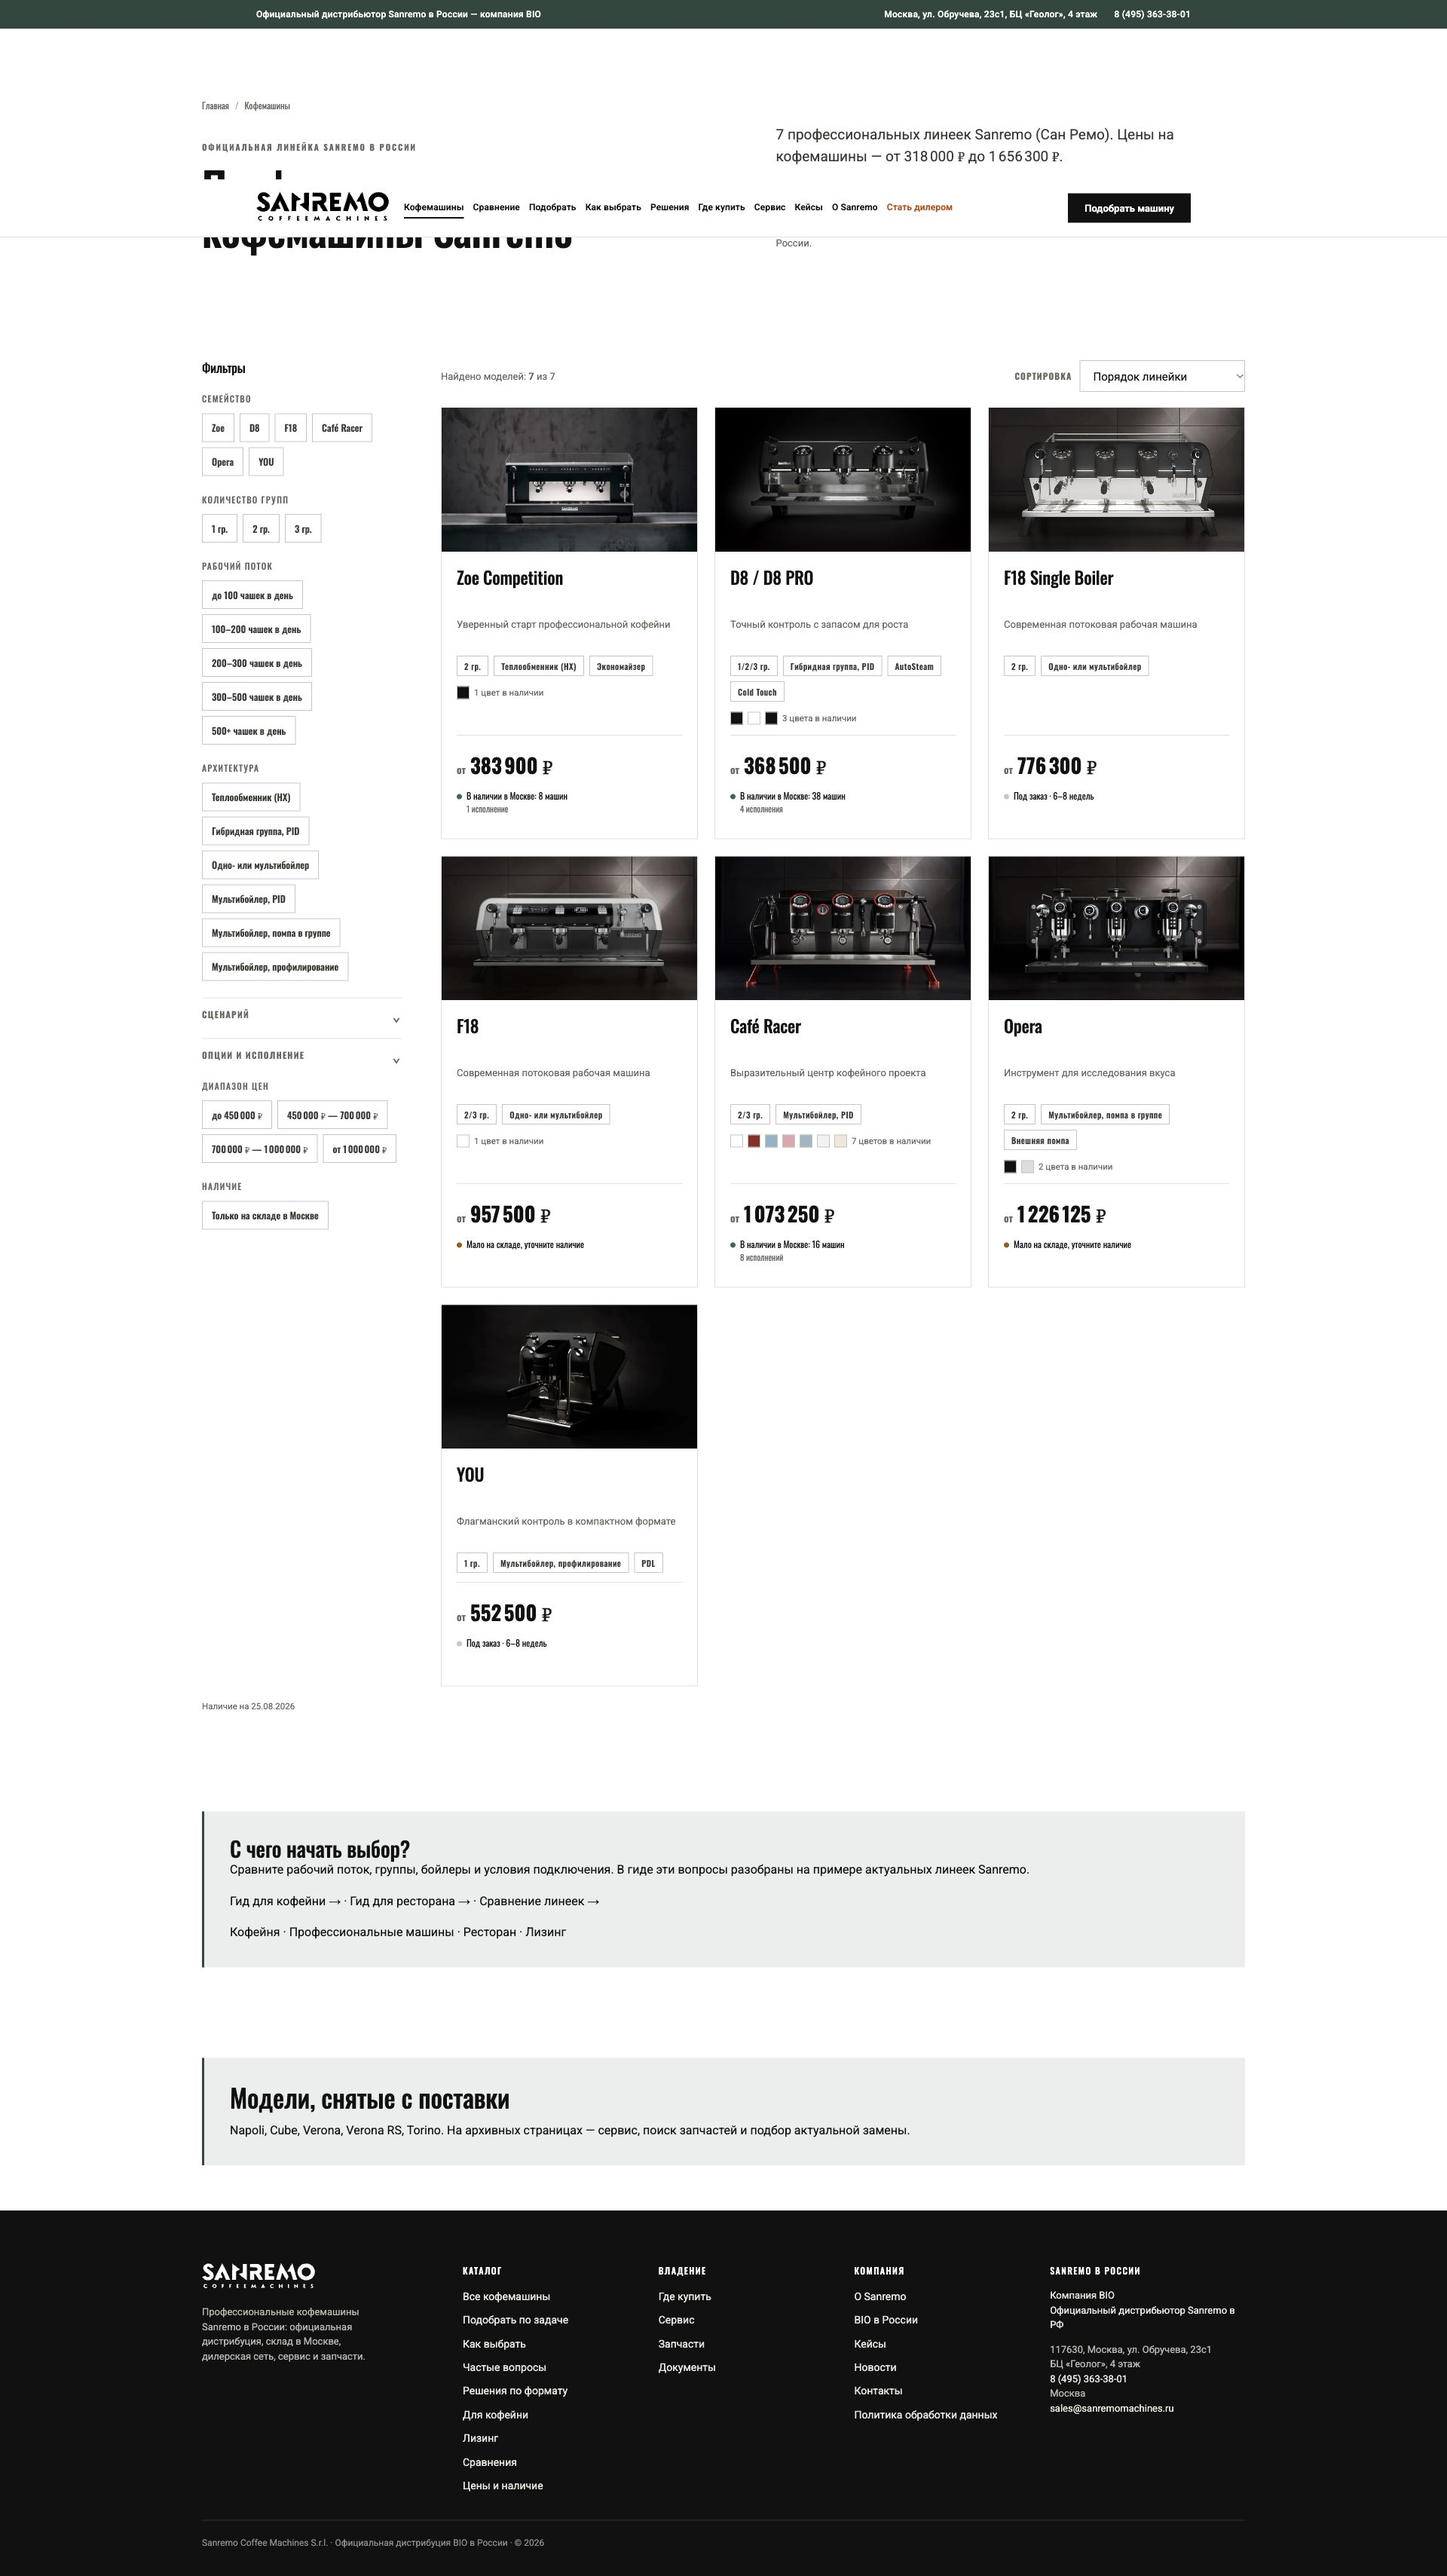
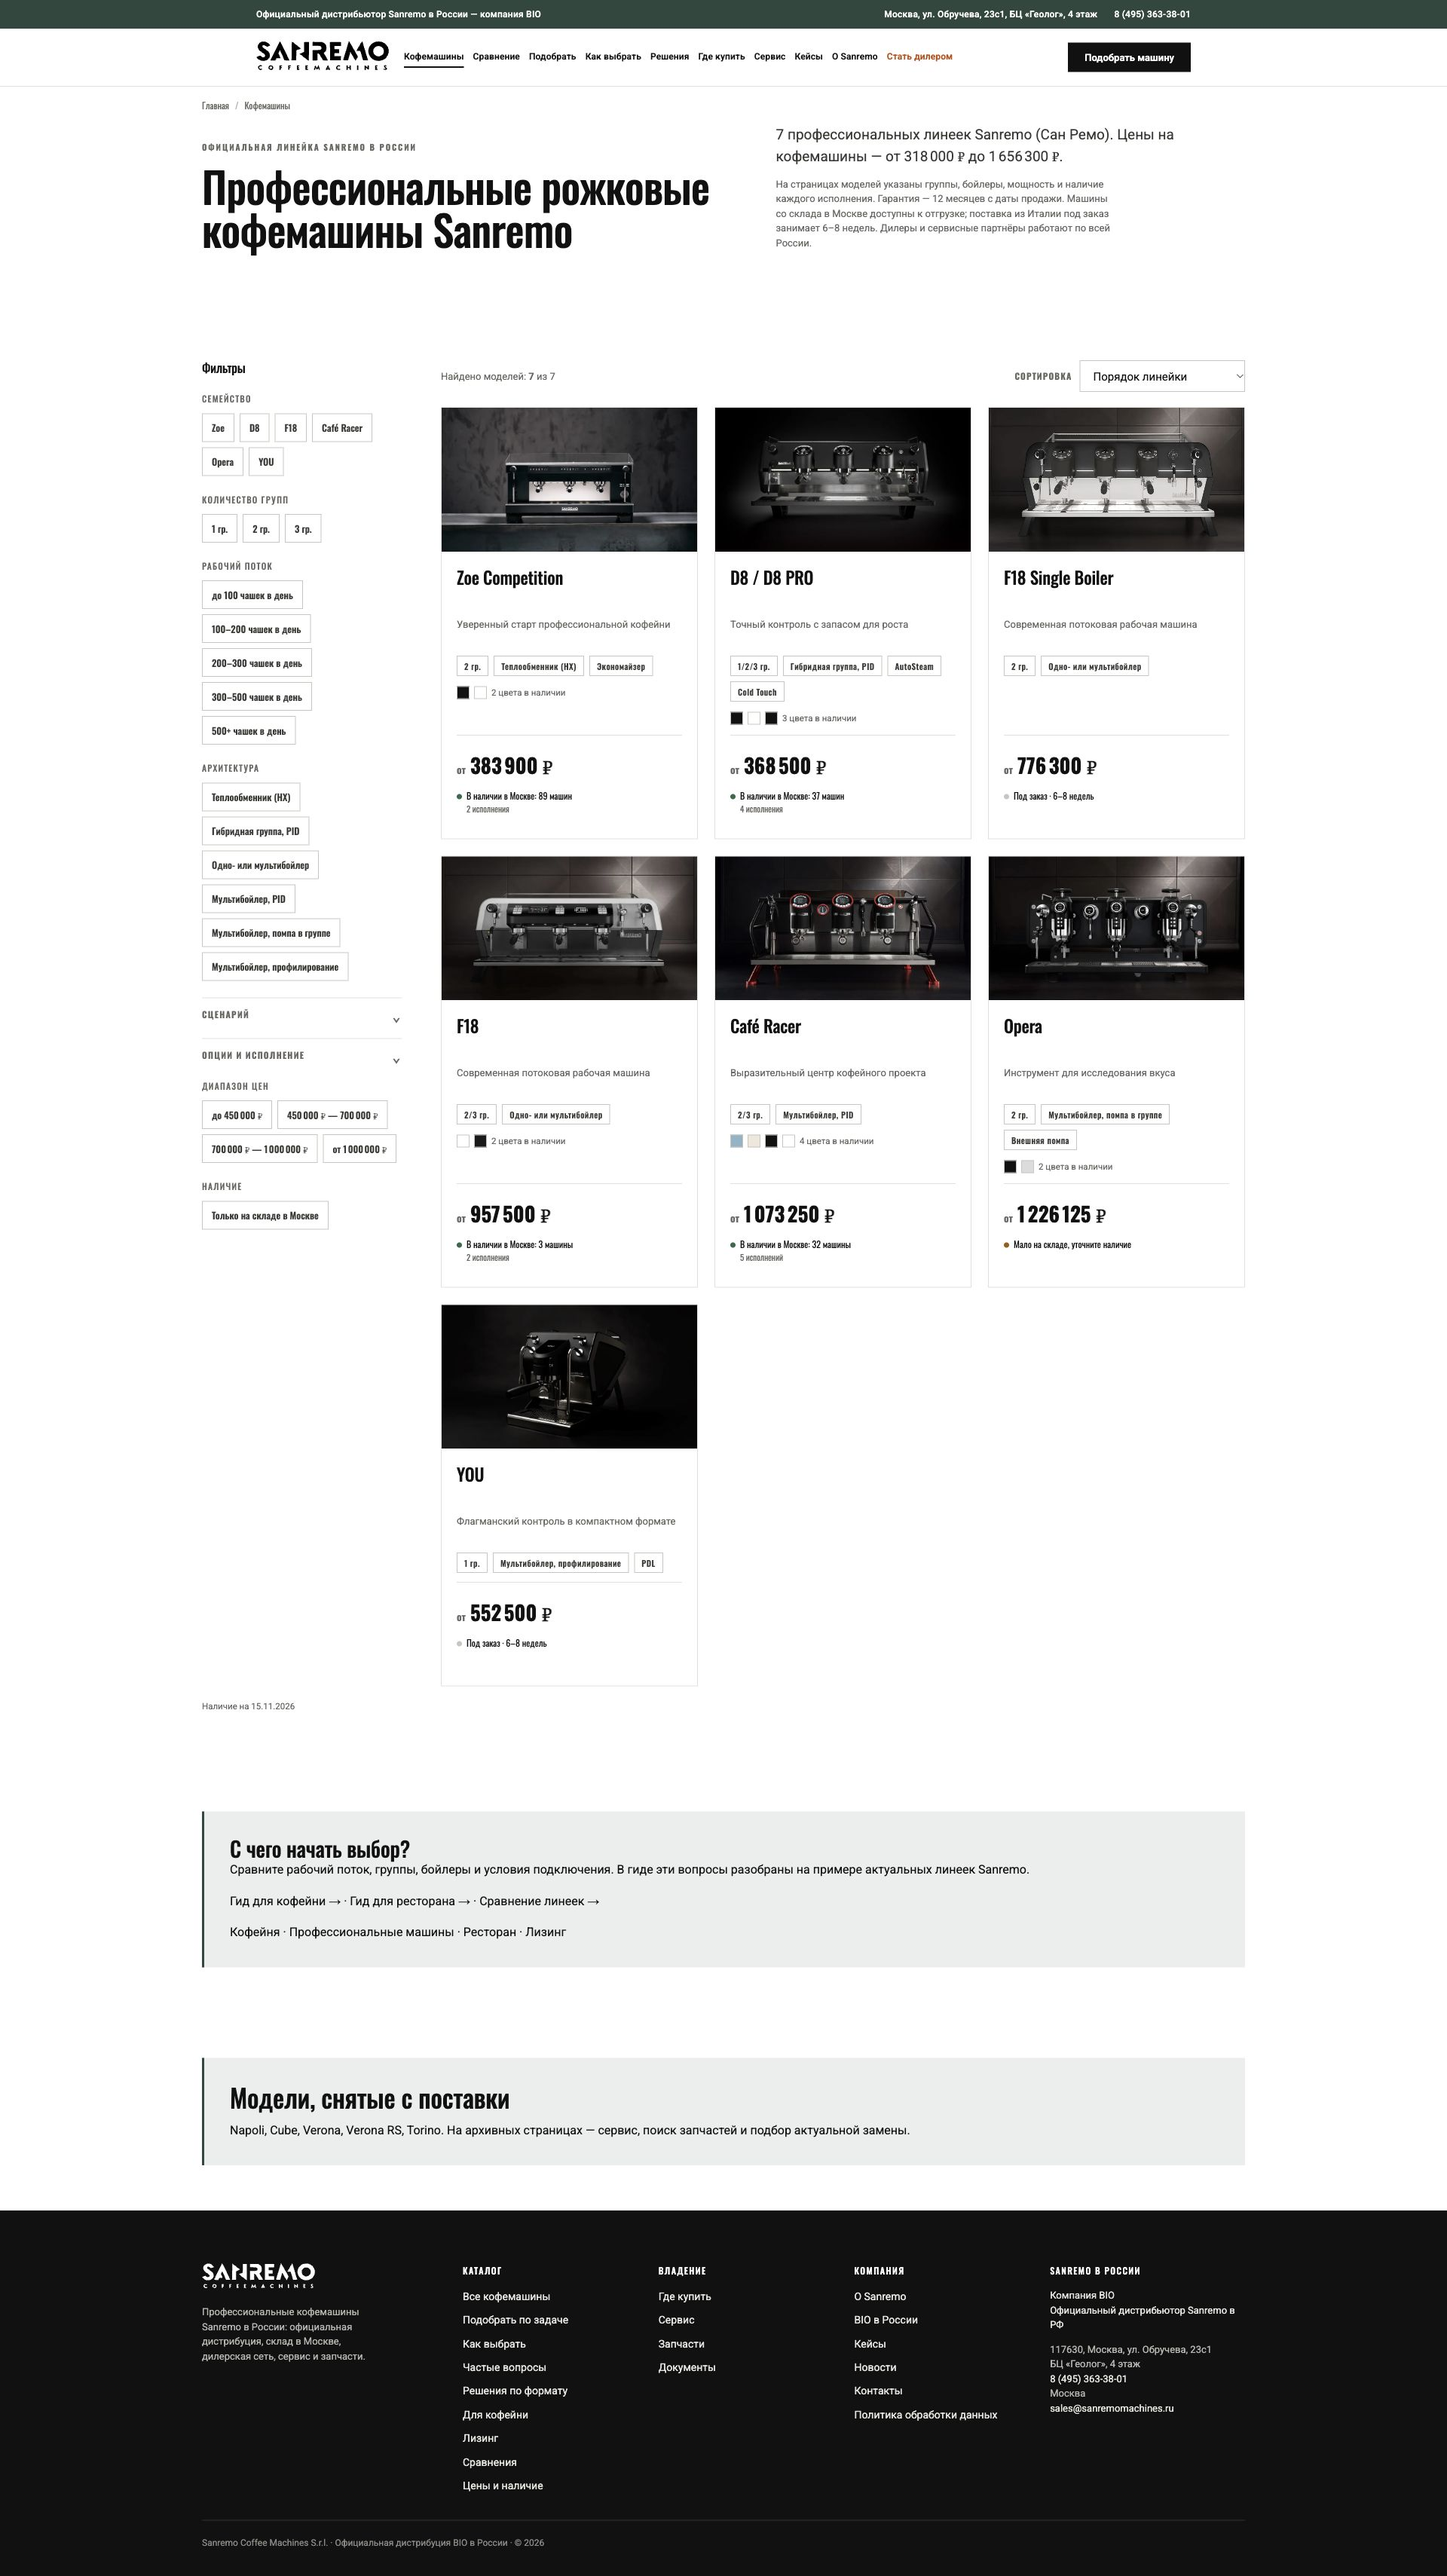
Record staging catalog responsive QA

diff --git a/docs/screenshots/catalog-mobile/README.md b/docs/screenshots/catalog-mobile/README.md
@@ -1,6 +1,6 @@
 # Мобильные фильтры каталога
 
-Проверка 15.11.2026. Локальный статический экспорт коммита после `05c66b2`.
+Проверка 15.11.2026 на Timeweb staging, коммит `f772984`. Снимки сделаны после полной загрузки изображений и актуальной выгрузки каталога BIO.
 
 | Ширина | Снимок |
 | --- | --- |
@@ -11,4 +11,4 @@
 | 1920 px | [Каталог](./after-1920.jpg) |
 | 1280 px, главная | [Превью D8 и YOU](./home-after-1280.jpg) |
 
-На четырёх ширинах ширина документа совпадает с шириной окна. На 390 px первая карточка начинается на 731 px от верха страницы; до правки её отделяла длинная колонка открытых фильтров. Фильтры открываются и скрываются, выбранный D8 отразился в `?family=d8`, сброс вернул семь моделей, сортировка добавила `?sort=price-asc`. Фото D8 и YOU имеют `loading="eager"` и ненулевую `naturalWidth`.
+На четырёх ширинах ширина документа совпадает с шириной окна. На 390 px первая карточка начинается на 731 px от верха страницы; до правки её отделяла длинная колонка открытых фильтров. Фильтры открываются и скрываются, выбранный D8 отразился в `?family=d8`, сброс вернул семь моделей. Дата наличия на staging — 15.11.2026, из выгрузки BIO. Фото D8 и YOU имеют `loading="eager"` и ненулевую `naturalWidth` в каталоге и на главной.
